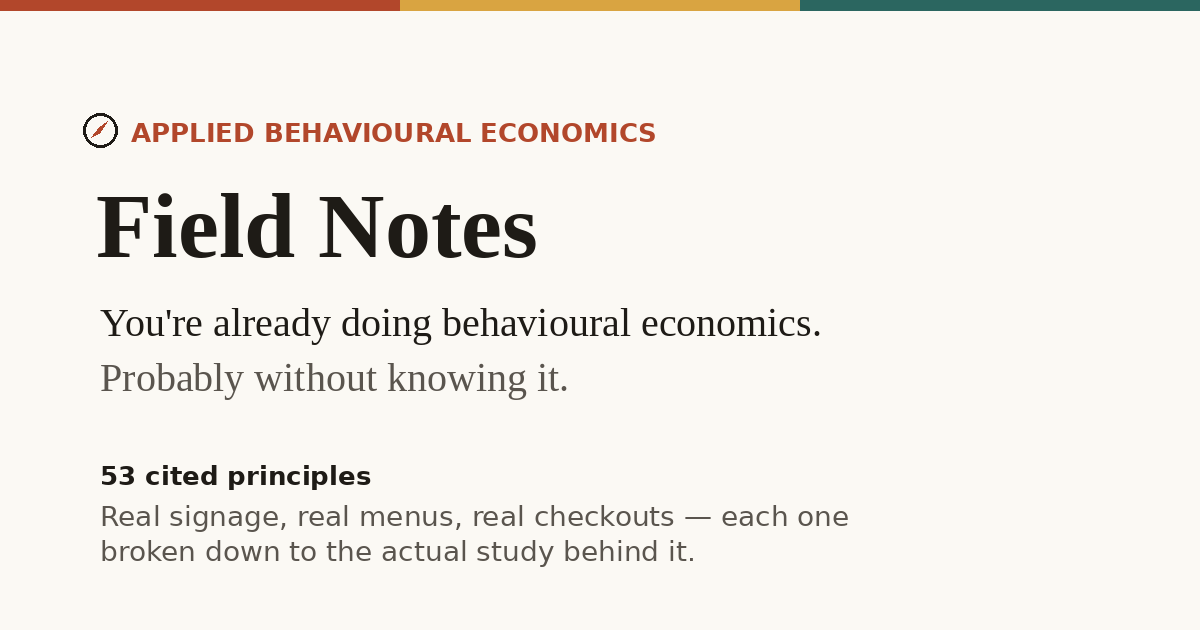
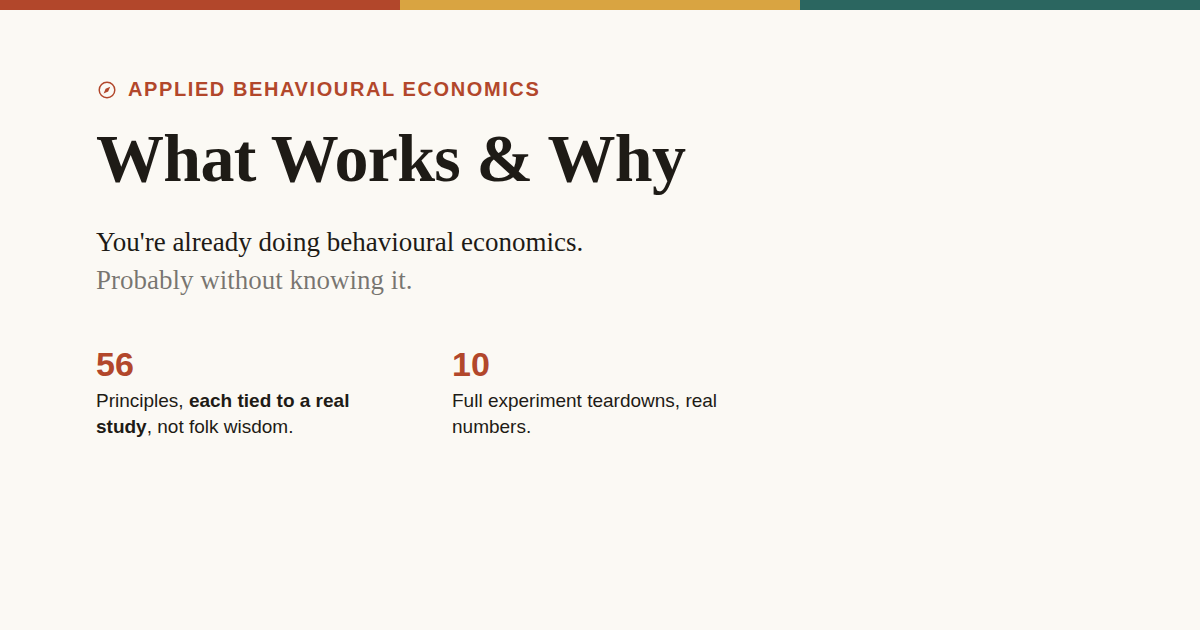
Rename site brand from Field Notes to What Works & Why
Confirmed name is "What Works & Why" (matching the logo image, not the
earlier "What Worked & Why" drafts). Updates title tags, meta/OG/Twitter
tags, nav logo text, and footer copyright across all 5 pages. Drops
"field guide" self-description on the homepage in favor of "guide."

Also replaces the logo lockup's mismatched "Build better product &
outcomes" tagline with "Real examples, real research," and regenerates
the social share card (og-card.png), which still said "Field Notes" and
"53 cited principles" against the site's actual 56, with an em dash in
the body copy.

Left "Field Notes" as a generic, non-branding phrase in two spots on
sessions.html (a session-format tab label and a session's own
description of its writing style) since those describe content type,
not the site's identity.

diff --git a/mockup/index.html b/mockup/index.html
@@ -4,17 +4,17 @@
 <meta charset="utf-8">
 <meta name="viewport" content="width=device-width, initial-scale=1">
 <meta name="theme-color" content="#FBF9F4">
-<title>Field Notes: a field guide to behavioural economics</title>
-<meta name="description" content="Field Notes is a field guide to applied behavioural economics: 56 principles, real field sessions, and testable experiment blueprints, each tied to a real study, not folk wisdom.">
+<title>What Works &amp; Why: real examples, real research</title>
+<meta name="description" content="What Works &amp; Why is a guide to applied behavioural economics: 56 principles, real field sessions, and testable experiment blueprints, each tied to a real study, not folk wisdom.">
 <link rel="canonical" href="https://www.grantburrow.com/">
 <meta property="og:type" content="website">
-<meta property="og:site_name" content="Field Notes">
-<meta property="og:title" content="Field Notes: a field guide to behavioural economics">
+<meta property="og:site_name" content="What Works &amp; Why">
+<meta property="og:title" content="What Works &amp; Why: real examples, real research">
 <meta property="og:description" content="56 principles, real field sessions, and testable experiment blueprints, each tied to a real study, not folk wisdom.">
 <meta property="og:url" content="https://www.grantburrow.com/">
 <meta property="og:image" content="https://www.grantburrow.com/images/og-card.png">
 <meta name="twitter:card" content="summary_large_image">
-<meta name="twitter:title" content="Field Notes: a field guide to behavioural economics">
+<meta name="twitter:title" content="What Works &amp; Why: real examples, real research">
 <meta name="twitter:description" content="56 principles, real field sessions, and testable experiment blueprints, each tied to a real study, not folk wisdom.">
 <meta name="twitter:image" content="https://www.grantburrow.com/images/og-card.png">
 <link rel="icon" type="image/svg+xml" href="favicon.svg">
@@ -34,7 +34,7 @@
 <nav class="site-nav">
   <div class="wrap">
     <div class="bar">
-      <a class="logo" href="index.html">Field Notes</a>
+      <a class="logo" href="index.html">What Works &amp; Why</a>
       <button class="menu-toggle" id="menuToggle" aria-expanded="false" aria-controls="navLinks" aria-label="Menu">
         <span></span><span></span><span></span>
       </button>
@@ -73,7 +73,7 @@
 
 <section class="about" id="intention">
   <div class="wrap">
-    <p class="lede">This is a field guide to the forces already shaping how people decide, so you can use them deliberately, not by accident.</p>
+    <p class="lede">This is a guide to the forces already shaping how people decide, so you can use them deliberately, not by accident.</p>
     <p class="bio">Real signage, real menus, real checkouts: each one broken down to the actual study behind it, not just the theory.</p>
   </div>
 </section>
@@ -291,7 +291,7 @@
 
 <footer>
   <div class="wrap">
-    <div>&copy; 2026 Field Notes</div>
+    <div>&copy; 2026 What Works &amp; Why</div>
     <ul>
       <li><a href="principles.html">Principles</a></li>
       <li><a href="sessions.html">Field Sessions</a></li>

diff --git a/mockup/reading-the-research.html b/mockup/reading-the-research.html
@@ -4,17 +4,17 @@
 <meta charset="utf-8">
 <meta name="viewport" content="width=device-width, initial-scale=1">
 <meta name="theme-color" content="#FBF9F4">
-<title>Reading the Research | Field Notes</title>
+<title>Reading the Research | What Works &amp; Why</title>
 <meta name="description" content="How to actually read behavioural science: the replication crisis, when interventions backfire, lab vs. field evidence, and why stated intentions are unreliable.">
 <link rel="canonical" href="https://www.grantburrow.com/reading-the-research.html">
 <meta property="og:type" content="article">
-<meta property="og:site_name" content="Field Notes">
-<meta property="og:title" content="Reading the Research | Field Notes">
+<meta property="og:site_name" content="What Works &amp; Why">
+<meta property="og:title" content="Reading the Research | What Works &amp; Why">
 <meta property="og:description" content="How to actually read behavioural science: the replication crisis, when interventions backfire, lab vs. field evidence, and why stated intentions are unreliable.">
 <meta property="og:url" content="https://www.grantburrow.com/reading-the-research.html">
 <meta property="og:image" content="https://www.grantburrow.com/images/og-card.png">
 <meta name="twitter:card" content="summary_large_image">
-<meta name="twitter:title" content="Reading the Research | Field Notes">
+<meta name="twitter:title" content="Reading the Research | What Works &amp; Why">
 <meta name="twitter:description" content="How to actually read behavioural science: the replication crisis, when interventions backfire, lab vs. field evidence, and why stated intentions are unreliable.">
 <meta name="twitter:image" content="https://www.grantburrow.com/images/og-card.png">
 <link rel="icon" type="image/svg+xml" href="favicon.svg">
@@ -25,7 +25,7 @@
 <nav class="site-nav">
   <div class="wrap">
     <div class="bar">
-      <a class="logo" href="index.html">Field Notes</a>
+      <a class="logo" href="index.html">What Works &amp; Why</a>
       <button class="menu-toggle" id="menuToggle" aria-expanded="false" aria-controls="navLinks" aria-label="Menu">
         <span></span><span></span><span></span>
       </button>
@@ -215,7 +215,7 @@
 
 <footer>
   <div class="wrap">
-    <div>&copy; 2026 Field Notes</div>
+    <div>&copy; 2026 What Works &amp; Why</div>
     <ul>
       <li><a href="principles.html">Principles</a></li>
       <li><a href="sessions.html">Field Sessions</a></li>

diff --git a/mockup/experiments.html b/mockup/experiments.html
@@ -4,17 +4,17 @@
 <meta charset="utf-8">
 <meta name="viewport" content="width=device-width, initial-scale=1">
 <meta name="theme-color" content="#FBF9F4">
-<title>Digital &amp; Product Experiments | Field Notes</title>
+<title>Digital &amp; Product Experiments | What Works &amp; Why</title>
 <meta name="description" content="Testable experiment blueprints for digital products: hypothesis, sample size, and how to run each one yourself.">
 <link rel="canonical" href="https://www.grantburrow.com/experiments.html">
 <meta property="og:type" content="website">
-<meta property="og:site_name" content="Field Notes">
-<meta property="og:title" content="Digital &amp; Product Experiments | Field Notes">
+<meta property="og:site_name" content="What Works &amp; Why">
+<meta property="og:title" content="Digital &amp; Product Experiments | What Works &amp; Why">
 <meta property="og:description" content="Testable experiment blueprints for digital products: hypothesis, sample size, and how to run each one yourself.">
 <meta property="og:url" content="https://www.grantburrow.com/experiments.html">
 <meta property="og:image" content="https://www.grantburrow.com/images/og-card.png">
 <meta name="twitter:card" content="summary_large_image">
-<meta name="twitter:title" content="Digital &amp; Product Experiments | Field Notes">
+<meta name="twitter:title" content="Digital &amp; Product Experiments | What Works &amp; Why">
 <meta name="twitter:description" content="Testable experiment blueprints for digital products: hypothesis, sample size, and how to run each one yourself.">
 <meta name="twitter:image" content="https://www.grantburrow.com/images/og-card.png">
 <link rel="icon" type="image/svg+xml" href="favicon.svg">
@@ -25,7 +25,7 @@
 <nav class="site-nav">
   <div class="wrap">
     <div class="bar">
-      <a class="logo" href="index.html">Field Notes</a>
+      <a class="logo" href="index.html">What Works &amp; Why</a>
       <button class="menu-toggle" id="menuToggle" aria-expanded="false" aria-controls="navLinks" aria-label="Menu">
         <span></span><span></span><span></span>
       </button>
@@ -938,7 +938,7 @@
 
 <footer>
   <div class="wrap">
-    <div>&copy; 2026 Field Notes</div>
+    <div>&copy; 2026 What Works &amp; Why</div>
     <ul>
       <li><a href="principles.html">Principles</a></li>
       <li><a href="sessions.html">Field Sessions</a></li>

diff --git a/mockup/sessions.html b/mockup/sessions.html
@@ -4,17 +4,17 @@
 <meta charset="utf-8">
 <meta name="viewport" content="width=device-width, initial-scale=1">
 <meta name="theme-color" content="#FBF9F4">
-<title>Field Sessions | Field Notes</title>
+<title>Field Sessions | What Works &amp; Why</title>
 <meta name="description" content="Real talks and workshops where behavioural economics gets put in front of a room, written up warts and all, including what didn't land.">
 <link rel="canonical" href="https://www.grantburrow.com/sessions.html">
 <meta property="og:type" content="website">
-<meta property="og:site_name" content="Field Notes">
-<meta property="og:title" content="Field Sessions | Field Notes">
+<meta property="og:site_name" content="What Works &amp; Why">
+<meta property="og:title" content="Field Sessions | What Works &amp; Why">
 <meta property="og:description" content="Real talks and workshops where behavioural economics gets put in front of a room, written up warts and all, including what didn't land.">
 <meta property="og:url" content="https://www.grantburrow.com/sessions.html">
 <meta property="og:image" content="https://www.grantburrow.com/images/og-card.png">
 <meta name="twitter:card" content="summary_large_image">
-<meta name="twitter:title" content="Field Sessions | Field Notes">
+<meta name="twitter:title" content="Field Sessions | What Works &amp; Why">
 <meta name="twitter:description" content="Real talks and workshops where behavioural economics gets put in front of a room, written up warts and all, including what didn't land.">
 <meta name="twitter:image" content="https://www.grantburrow.com/images/og-card.png">
 <link rel="icon" type="image/svg+xml" href="favicon.svg">
@@ -25,7 +25,7 @@
 <nav class="site-nav">
   <div class="wrap">
     <div class="bar">
-      <a class="logo" href="index.html">Field Notes</a>
+      <a class="logo" href="index.html">What Works &amp; Why</a>
       <button class="menu-toggle" id="menuToggle" aria-expanded="false" aria-controls="navLinks" aria-label="Menu">
         <span></span><span></span><span></span>
       </button>
@@ -2394,7 +2394,7 @@
 
 <footer>
   <div class="wrap">
-    <div>&copy; 2026 Field Notes</div>
+    <div>&copy; 2026 What Works &amp; Why</div>
     <ul>
       <li><a href="principles.html">Principles</a></li>
       <li><a href="sessions.html">Field Sessions</a></li>

diff --git a/mockup/principles.html b/mockup/principles.html
@@ -4,17 +4,17 @@
 <meta charset="utf-8">
 <meta name="viewport" content="width=device-width, initial-scale=1">
 <meta name="theme-color" content="#FBF9F4">
-<title>All Principles | Field Notes</title>
+<title>All Principles | What Works &amp; Why</title>
 <meta name="description" content="56 behavioural economics principles, each broken down to the real cited study behind it, searchable and filterable by category.">
 <link rel="canonical" href="https://www.grantburrow.com/principles.html">
 <meta property="og:type" content="website">
-<meta property="og:site_name" content="Field Notes">
-<meta property="og:title" content="All Principles | Field Notes">
+<meta property="og:site_name" content="What Works &amp; Why">
+<meta property="og:title" content="All Principles | What Works &amp; Why">
 <meta property="og:description" content="56 behavioural economics principles, each broken down to the real cited study behind it, searchable and filterable by category.">
 <meta property="og:url" content="https://www.grantburrow.com/principles.html">
 <meta property="og:image" content="https://www.grantburrow.com/images/og-card.png">
 <meta name="twitter:card" content="summary_large_image">
-<meta name="twitter:title" content="All Principles | Field Notes">
+<meta name="twitter:title" content="All Principles | What Works &amp; Why">
 <meta name="twitter:description" content="56 behavioural economics principles, each broken down to the real cited study behind it, searchable and filterable by category.">
 <meta name="twitter:image" content="https://www.grantburrow.com/images/og-card.png">
 <link rel="icon" type="image/svg+xml" href="favicon.svg">
@@ -25,7 +25,7 @@
 <nav class="site-nav">
   <div class="wrap">
     <div class="bar">
-      <a class="logo" href="index.html">Field Notes</a>
+      <a class="logo" href="index.html">What Works &amp; Why</a>
       <button class="menu-toggle" id="menuToggle" aria-expanded="false" aria-controls="navLinks" aria-label="Menu">
         <span></span><span></span><span></span>
       </button>
@@ -5206,7 +5206,7 @@
 
 <footer>
   <div class="wrap">
-    <div>&copy; 2026 Field Notes</div>
+    <div>&copy; 2026 What Works &amp; Why</div>
     <ul>
       <li><a href="principles.html">Principles</a></li>
       <li><a href="sessions.html">Field Sessions</a></li>
